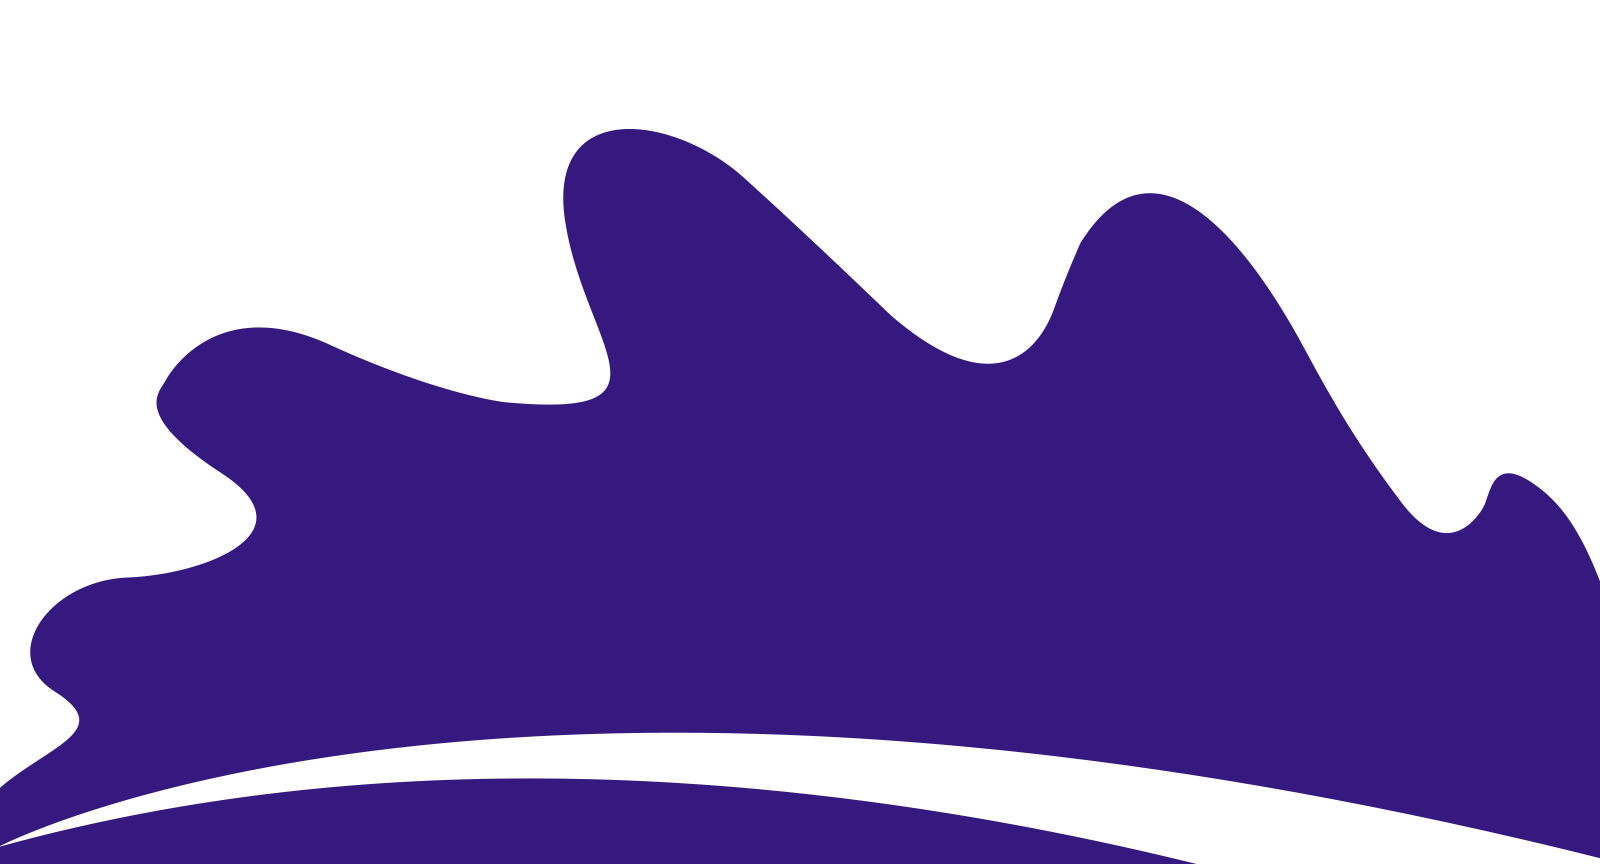
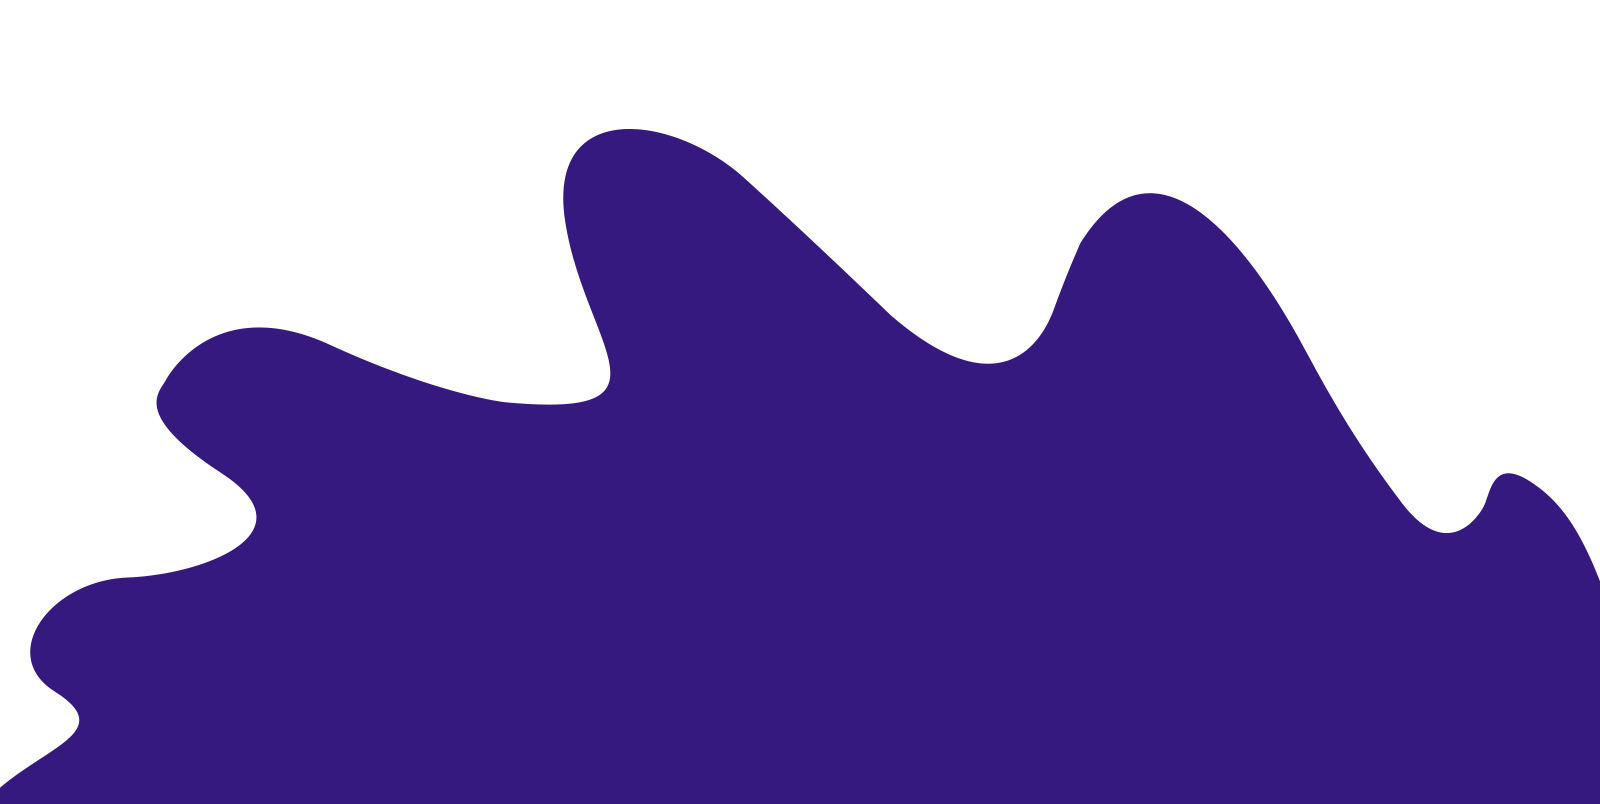
2nd

diff --git a/portfolio/css/style.css b/portfolio/css/style.css
@@ -37,13 +37,13 @@ p-lg, .paragraph-lg {
 }
 
 h1, h2, h3, h4, h5, h6 {
-  color: #000;
+  color: #4c4c4c;;
   font-family: "Playfair Display", serif;
   line-height: 1.2;
 }
 
 h1, .h1 {
-  font-size: 80px;
+  font-size: 70px;
 }
 
 @media (max-width: 991px) {
@@ -112,7 +112,7 @@ h6, .h6 {
 }
 
 .btn-primary {
-  background: #41228e;
+  background: #3b2e5a;
   color: #fff;
 }
 
@@ -131,12 +131,12 @@ h6, .h6 {
 
 .btn-transparent {
   background: transparent;
-  color: #41228e;
+  color: #4c4c4c;
   font-weight: bold;
 }
 
 .btn-transparent:active, .btn-transparent:hover {
-  color: #41228e;
+  color: #394989;
 }
 
 body {
@@ -251,7 +251,7 @@ a:hover {
 }
 
 .bg-primary {
-  background: #41228e !important;
+  background: #000000 !important;
 }
 
 .bg-gray {
@@ -426,7 +426,7 @@ textarea.form-control {
 }
 
 .navigation.nav-bg {
-  background-color: #41228e;
+  background-color: #000000;
   padding: 15px 100px;
 }
 
@@ -439,7 +439,7 @@ textarea.form-control {
 @media (max-width: 991px) {
   .navigation {
     padding: 20px;
-    background: #41228e;
+    background: #000000;
   }
 }
 
@@ -455,6 +455,11 @@ textarea.form-control {
 
 .navbar-dark .navbar-nav .nav-link {
   color: #fff;
+}
+
+#parallax > ul {
+  text-align: right;
+  margin-right: 5rem !important;
 }
 
 .hero-area {

diff --git a/portfolio/index.html b/portfolio/index.html
@@ -74,13 +74,16 @@
   <div class="container">
     <div class="row">
       <div class="col-lg-11 mx-auto">
-        <h1 class="text-white font-tertiary">Hi! <br> I’m Yuni <br> Server Developer</h1>
+        <h1 class="text-white font-tertiary">Hi!<br/> I’m a Server Developer <br/> based in Seoul, Korea</h1>
       </div>
     </div>
   </div>
+
+  <!--
   <div class="layer-bg w-100">
     <img class="img-fluid w-100" src="images/illustrations/leaf-bg.png" alt="bg-shape">
   </div>
+
   <div class="layer" id="l2">
     <img src="images/illustrations/dots-cyan.png" alt="bg-shape">
   </div>
@@ -105,6 +108,8 @@
   <div class="layer" id="l9">
     <img src="images/illustrations/leaf-cyan-2.png" alt="bg-shape">
   </div>
+  -->
+
   <!-- social icon -->
   <ul class="list-unstyled ml-5 mt-3 position-relative zindex-1">
     <!--<li class="mb-3"><a class="text-white" href="#"><i class="ti-facebook"></i></a></li>-->
@@ -367,8 +372,8 @@
     </div>
   </div>
 </section>
+-->
 <!-- /services -->
-  -->
 
 <!-- portfolio -->
 <section class="section">
